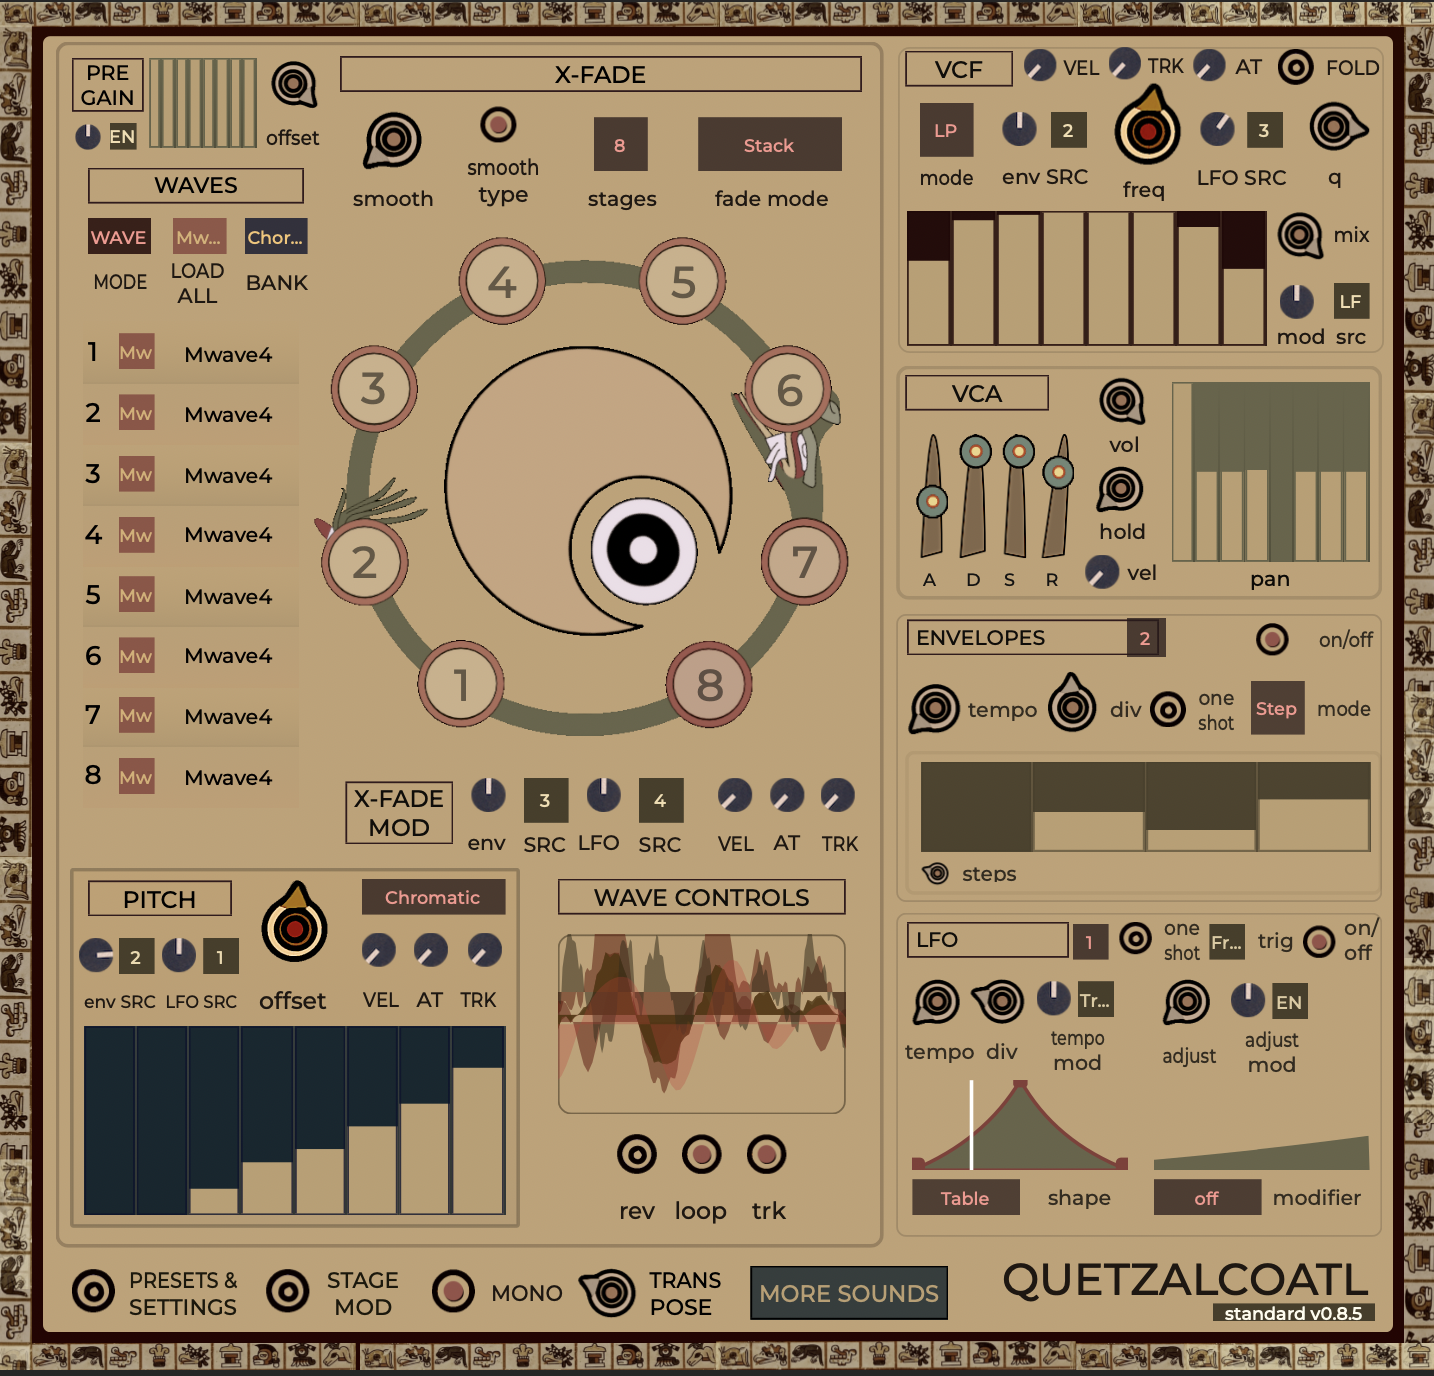
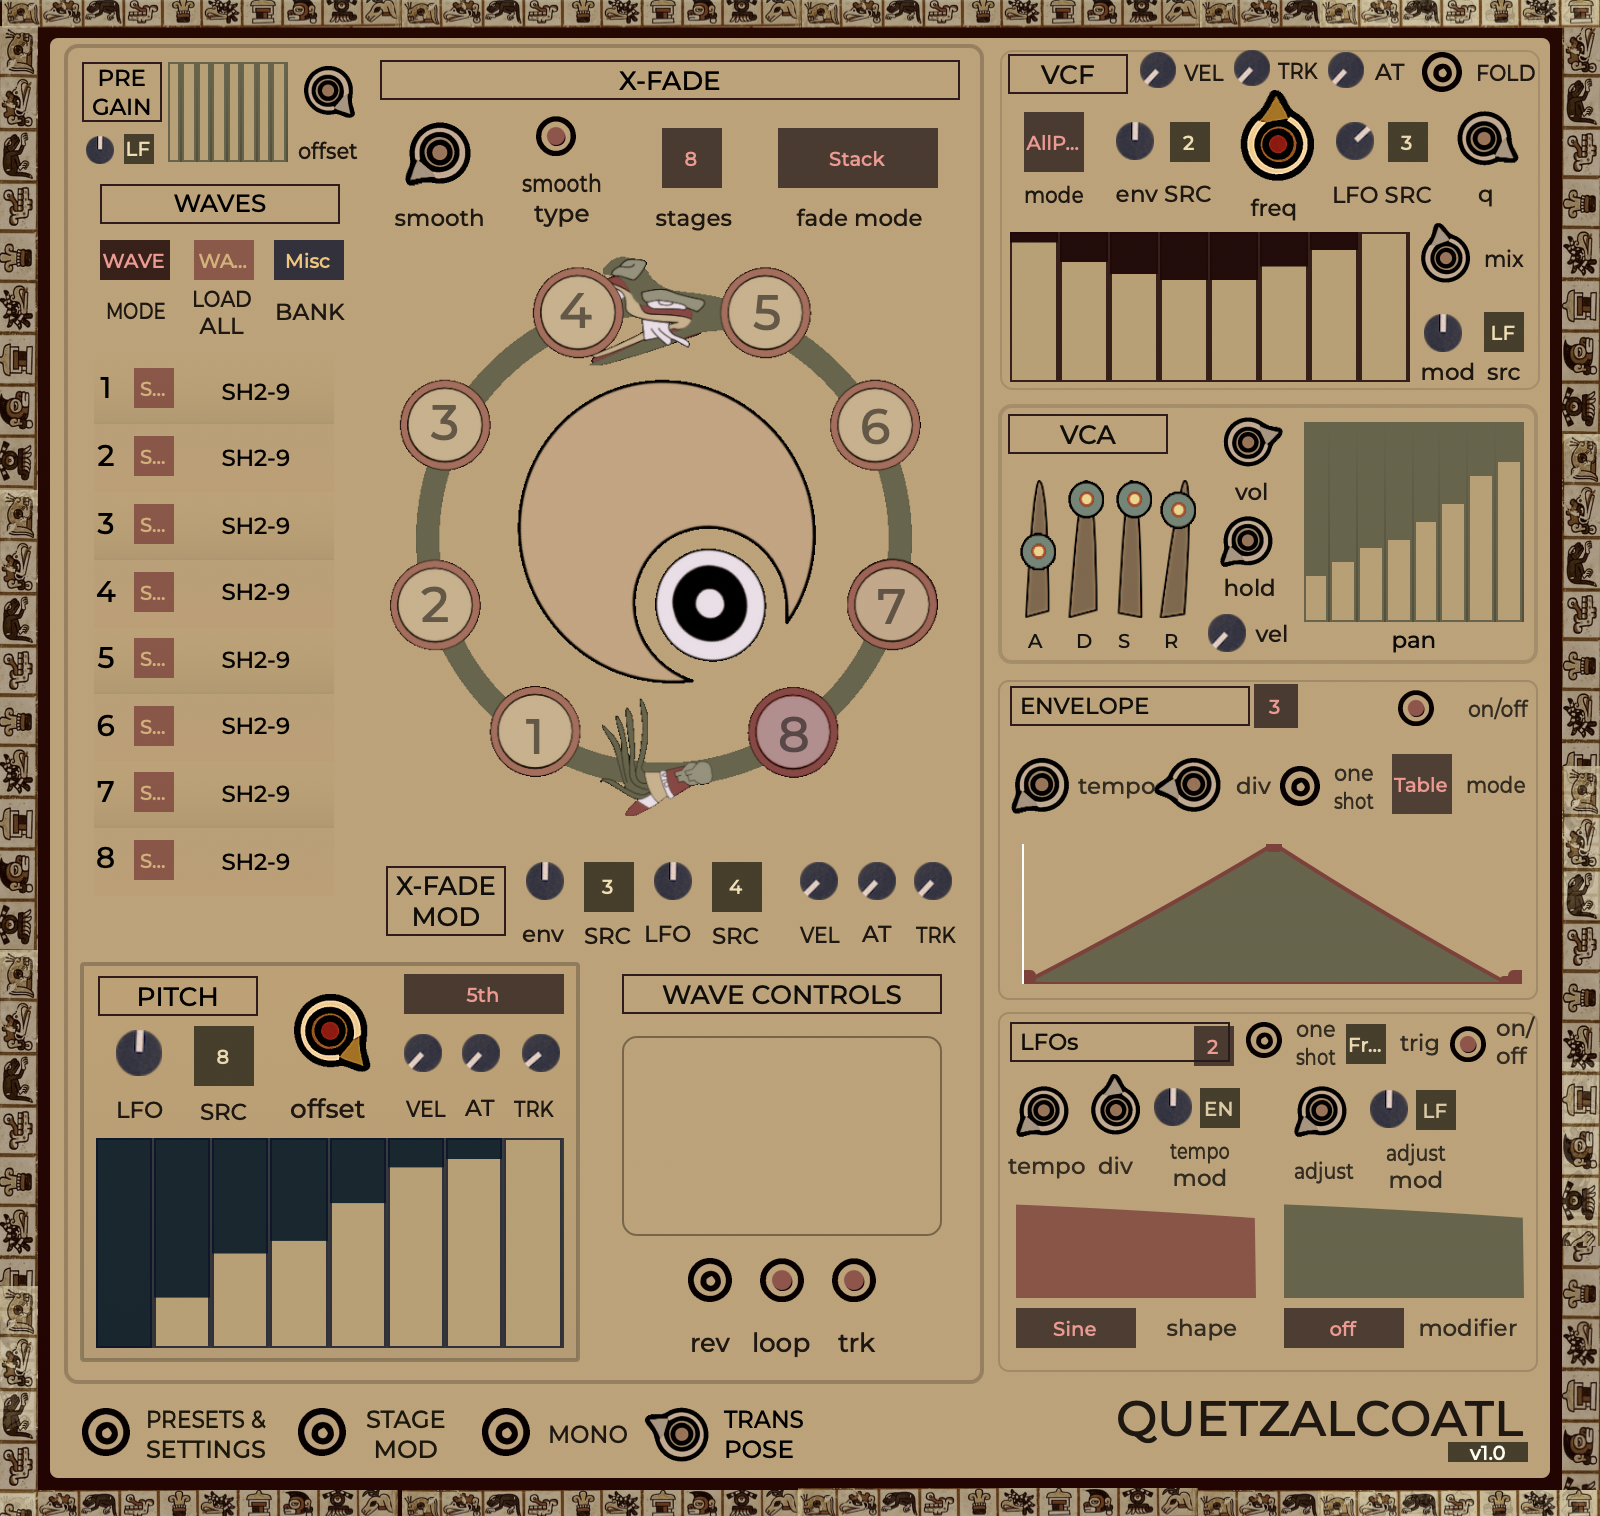
readme

Changed region(s): [[0.0, 0.0, 1.0, 1.0], [0.0614, 0.25, 0.1841, 0.3125], [0.4909, 0.0938, 0.583, 0.1562]]

diff --git a/README.md b/README.md
@@ -1,12 +1,14 @@
 
 # Quetzalcoatl
-[Download](https://github.com/publicsamples/Quetzalcoatl/releases) - [Quetzalcoatl II](https://gumroad.com/products/lybce) - [Discuss](https://github.com/publicsamples/Quetzalcoatl/discussions)- [Demos](https://www.youtube.com/playlist?list=PL8Rp79UJ5uBDTPUgQJdIidH2vCRYB4T7S) - [Twin](https://github.com/publicsamples/Xolotl) - [Quick Guide](https://github.com/publicsamples/Quetzalcoatl/wiki/Quetzalcoatl-quick-guide) - [Install](https://github.com/publicsamples/Quetzalcoatl/wiki/Installation) - [Tutorials](https://www.youtube.com/playlist?list=PL8Rp79UJ5uBCV9Uh7daNJhiqda7L4ccCv)
+[Download](https://github.com/publicsamples/Quetzalcoatl/releases) - [Quetzalcoatl II](https://gumroad.com/products/lybce) - [Discuss](https://github.com/publicsamples/Quetzalcoatl/discussions)- [Demos](https://www.youtube.com/playlist?list=PL8Rp79UJ5uBDTPUgQJdIidH2vCRYB4T7S) - [Twin](https://github.com/publicsamples/Xolotl) - [Tutorials](https://www.youtube.com/playlist?list=PL8Rp79UJ5uBCV9Uh7daNJhiqda7L4ccCv)
+
+![Quetzalcoatl](https://raw.githubusercontent.com/publicsamples/Quetzalcoatl/main/Quetzalcoatl.png)
+
 
 Quetzalcoatl is an 8 layer sample playback plugin (VST/AudioUnit) for Mac OS, Windows & Linux (support currently limited to Ubuntu 22+). It performs traditional rompler duties, excelling at pads and evolving textures (or whatever else you fancy), but can also be used for melodic and sequenced material thanks to its comprehensive modulation/sequencing options. In this sense, you can think of it as a kind left-field groovebox.
 
 Quetzalcoatl is inspired by the Aztec deity that shares its name. [Quetzalcoatl](https://www.youtube.com/watch?v=A8e1fyzNU-c) (known to the Maya as Kukulkan), represents wisdom, art and the wind. 
 
-An [expanded version](https://modularsamples.gumroad.com/l/lybce) with additional sounds and presets is available for a small fee.
 
 Quetzalcoatl is built with [HISE](http://hise.audio), an open source framework for sample based instruments. 
 
@@ -23,7 +25,25 @@ Quetzalcoatl is built with [HISE](http://hise.audio), an open source framework f
 - 8 Polyphonic modulation sources
 - A large and diverse sound library
 
-![Quetzalcoatl](https://raw.githubusercontent.com/publicsamples/Quetzalcoatl/main/Quetzalcoatl.png)
+
+# Quetzalcoatl II
+
+![Quetzalcoatl](https://raw.githubusercontent.com/publicsamples/Quetzalcoatl/main/q2.png)
+
+
+[Quetzalcoatl II](https://gumroad.com/products/lybce) is a new, separately developed instrument based on the same underlying concept.
+
+It features a redesigned interface, expanded synthesis architecture, additional sound-generation modes, a much more flexible modulation system and numerous other improvements.
+
+Unlike the original instrument, Quetzalcoatl II is closed source and commercially distributed.
+
+Important: Quetzalcoatl and Quetzalcoatl II are separate instruments. Their presets, sample maps and other instrument-specific formats are not compatible.
+
+Quetzalcoatl 1.0 will remain available independently of Quetzalcoatl II.
+
+# Licence
+
+Quetzalcoatl is distributed under the GNU General Public License v3.0 (GPL-3.0).
 
 # Credits
 
